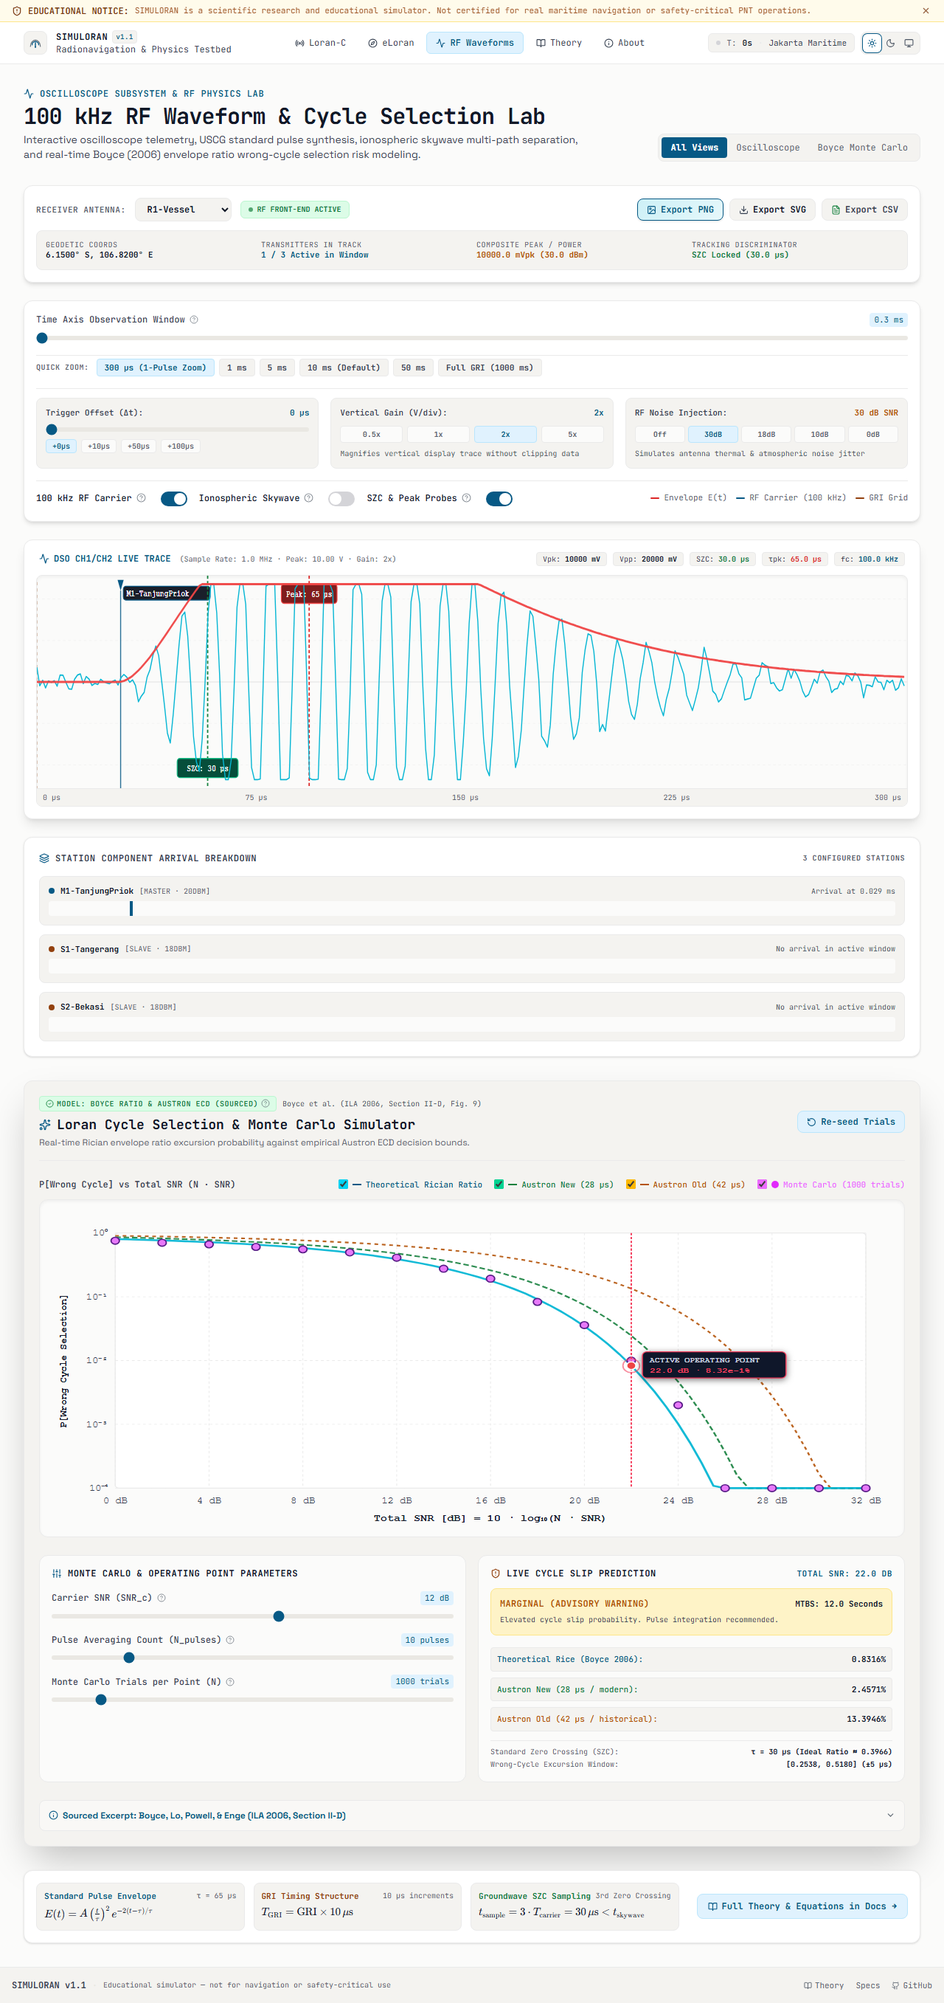
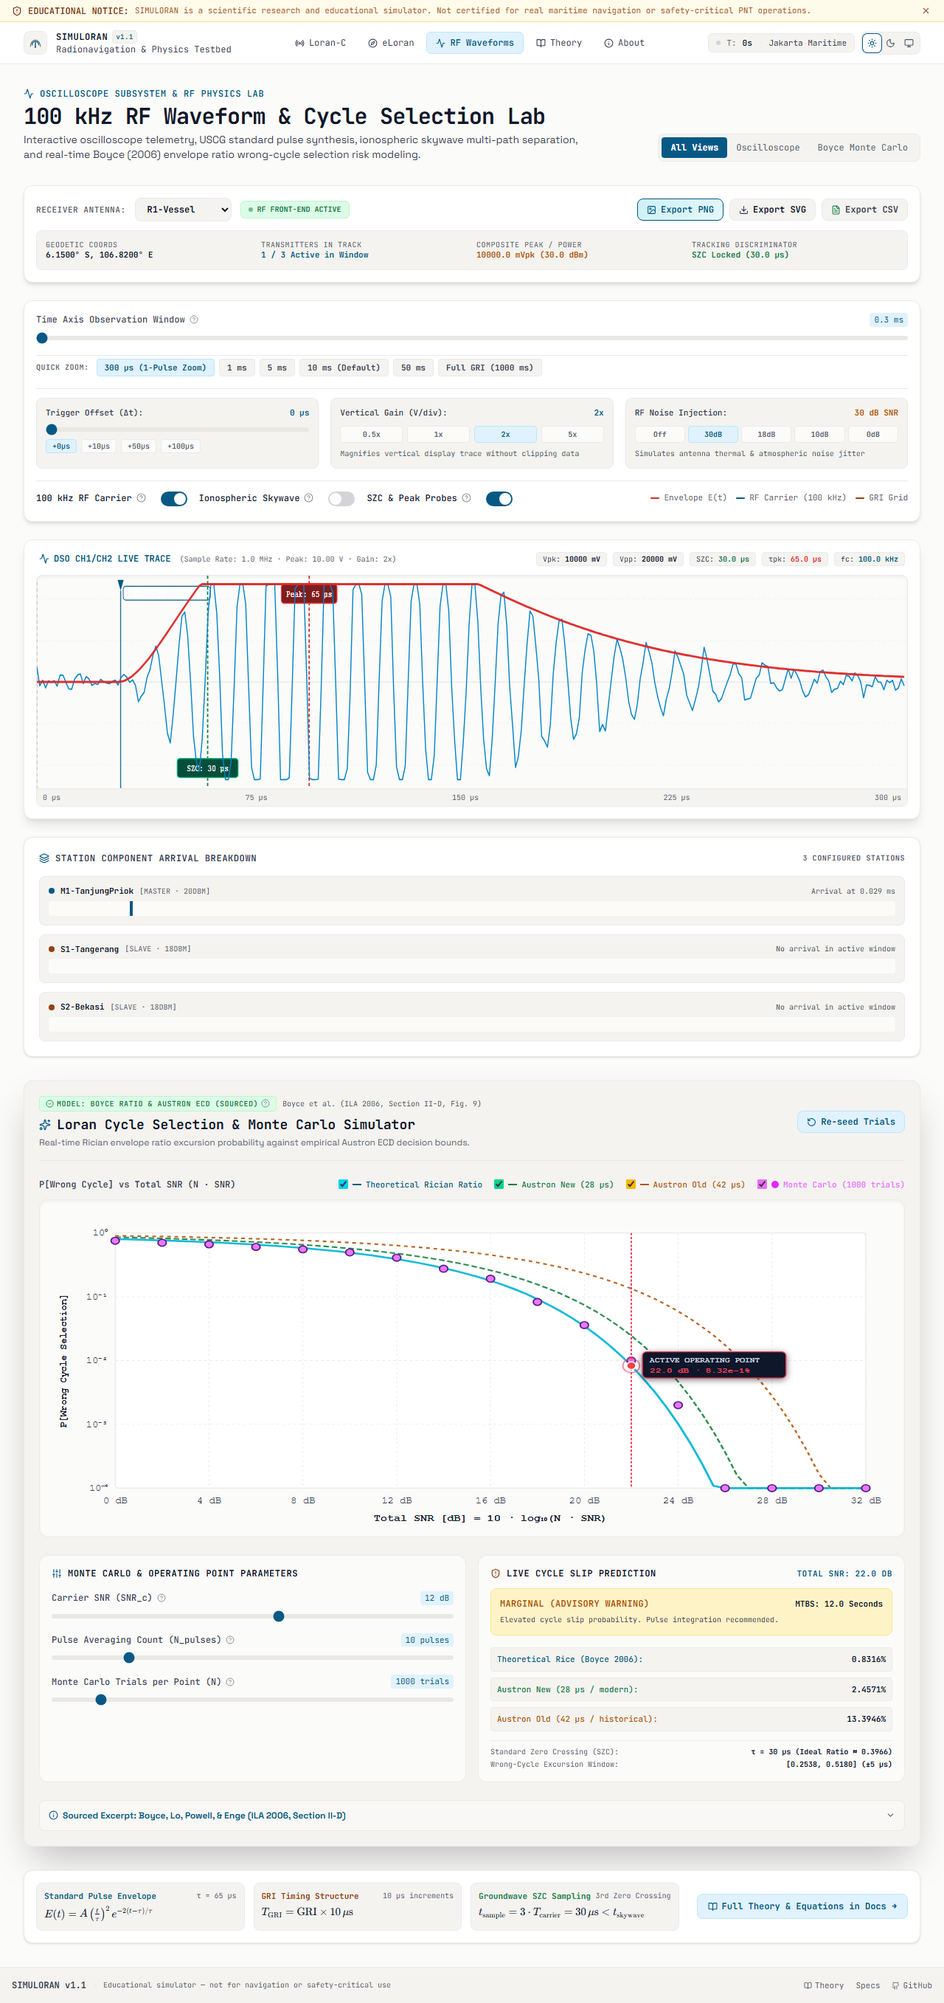
ui: adapt waveform exports and oscilloscope to active theme

Changed region(s): [[0.125, 0.2786, 0.2188, 0.3095]]

diff --git a/src/components/charts/PulseViewer.jsx b/src/components/charts/PulseViewer.jsx
@@ -4,6 +4,7 @@ import {
   Sliders, ShieldCheck, RotateCcw, Image as ImageIcon,
 } from 'lucide-react';
 import { useSimulationStore } from '../../state/simulationStore.js';
+import { useThemeStore } from '../../state/themeStore.js';
 import { synthesizeReceiverWaveform } from '../../lib/pulse.js';
 import Toggle from '../ui/Toggle.jsx';
 import Slider from '../ui/Slider.jsx';
@@ -15,6 +16,8 @@ export default function PulseViewer() {
   } = useSimulationStore();
 
   const svgRef = useRef(null);
+  const { effectiveTheme } = useThemeStore();
+  const isDark = effectiveTheme === 'dark';
 
   // Timebase & Oscilloscope Controls
   const [windowDurationMs, setWindowDurationMs] = useState(10);
@@ -144,7 +147,7 @@ export default function PulseViewer() {
   // Single-pulse zoom mode detection (window <= 0.5 ms)
   const isSinglePulseZoom = windowDurationMs <= 0.5;
 
-  // Presentation-Grade Vector SVG String Generator (Shared between SVG & PNG exports)
+  // Presentation-Grade Vector SVG String Generator (Theme-Adaptive between Light & Dark modes)
   const generateExportSvgString = () => {
     if (!waveform.length) return '';
     const exportWidth = 1200;
@@ -156,6 +159,71 @@ export default function PulseViewer() {
     const chartH = 360;
     const midY = topY + chartH / 2;
     const botY = topY + chartH;
+
+    // Theme-specific colors calibrated for WCAG contrast & crisp oscilloscope presentation
+    const colors = isDark ? {
+      bgStart: '#080c14',
+      bgEnd: '#03050a',
+      bezelFill: '#03050a',
+      bezelStroke: '#1e293b',
+      headerTitle: '#f8fafc',
+      headerSubtitle: '#94a3b8',
+      headerStandards: '#64748b',
+      hudBg: '#090d16',
+      hudBorder: '#334155',
+      hudTitle: '#38bdf8',
+      hudText: '#cbd5e1',
+      hudSubText: '#94a3b8',
+      gridLine: '#1e293b',
+      centerLine: '#334155',
+      axisText: '#94a3b8',
+      waveColor: '#06b6d4',
+      envColor: '#ef4444',
+      masterColor: '#06b6d4',
+      slaveColor: '#f59e0b',
+      badgeBg: '#070c18',
+      badgeText: '#f8fafc',
+      badgeSkyText: '#fcd34d',
+      szcLine: '#10b981',
+      szcBoxBg: '#064e3b',
+      szcBoxBorder: '#10b981',
+      szcText: '#ecfdf5',
+      peakLine: '#ef4444',
+      peakBoxBg: '#7f1d1d',
+      peakBoxBorder: '#ef4444',
+      peakText: '#fef2f2',
+    } : {
+      bgStart: '#f8fafc',
+      bgEnd: '#edf2f7',
+      bezelFill: '#ffffff',
+      bezelStroke: '#cbd5e1',
+      headerTitle: '#0f172a',
+      headerSubtitle: '#475569',
+      headerStandards: '#64748b',
+      hudBg: '#f1f5f9',
+      hudBorder: '#cbd5e1',
+      hudTitle: '#0284c7',
+      hudText: '#1e293b',
+      hudSubText: '#64748b',
+      gridLine: '#e2e8f0',
+      centerLine: '#94a3b8',
+      axisText: '#64748b',
+      waveColor: '#0284c7',
+      envColor: '#dc2626',
+      masterColor: '#0369a1',
+      slaveColor: '#d97706',
+      badgeBg: '#ffffff',
+      badgeText: '#0f172a',
+      badgeSkyText: '#b45309',
+      szcLine: '#059669',
+      szcBoxBg: '#ecfdf5',
+      szcBoxBorder: '#059669',
+      szcText: '#065f46',
+      peakLine: '#dc2626',
+      peakBoxBg: '#fef2f2',
+      peakBoxBorder: '#dc2626',
+      peakText: '#991b1b',
+    };
 
     const ptsCount = Math.min(waveform.length, 2400);
     const expStep = Math.max(1, Math.floor(waveform.length / ptsCount));
@@ -182,8 +250,8 @@ export default function PulseViewer() {
         ? `${(frac * windowDurationMs * 1000).toFixed(0)} µs`
         : `${(frac * windowDurationMs).toFixed(1)} ms`;
       gridLinesSvg += `
-        <line x1="${gx.toFixed(1)}" y1="${topY}" x2="${gx.toFixed(1)}" y2="${botY}" stroke="#1e293b" stroke-width="1" stroke-dasharray="2 3" />
-        <text x="${gx.toFixed(1)}" y="${botY + 22}" fill="#94a3b8" font-size="11" font-family="ui-monospace, monospace" text-anchor="middle">${timeVal}</text>
+        <line x1="${gx.toFixed(1)}" y1="${topY}" x2="${gx.toFixed(1)}" y2="${botY}" stroke="${colors.gridLine}" stroke-width="1" stroke-dasharray="2 3" />
+        <text x="${gx.toFixed(1)}" y="${botY + 22}" fill="${colors.axisText}" font-size="11" font-family="ui-monospace, monospace" text-anchor="middle">${timeVal}</text>
       `;
     }
 
@@ -199,8 +267,8 @@ export default function PulseViewer() {
     ampLines.forEach((l) => {
       const isCenter = Math.abs(l.y - midY) < 1;
       ampGridSvg += `
-        <line x1="${padX}" y1="${l.y.toFixed(1)}" x2="${padX + chartW}" y2="${l.y.toFixed(1)}" stroke="${isCenter ? '#334155' : '#1e293b'}" stroke-width="${isCenter ? '1.5' : '1'}" />
-        <text x="${padX - 12}" y="${(l.y + 4).toFixed(1)}" fill="#94a3b8" font-size="11" font-family="ui-monospace, monospace" text-anchor="end">${l.label}</text>
+        <line x1="${padX}" y1="${l.y.toFixed(1)}" x2="${padX + chartW}" y2="${l.y.toFixed(1)}" stroke="${isCenter ? colors.centerLine : colors.gridLine}" stroke-width="${isCenter ? '1.5' : '1'}" />
+        <text x="${padX - 12}" y="${(l.y + 4).toFixed(1)}" fill="${colors.axisText}" font-size="11" font-family="ui-monospace, monospace" text-anchor="end">${l.label}</text>
       `;
     });
 
@@ -220,7 +288,7 @@ export default function PulseViewer() {
     let arrivalsSvg = '';
 
     visibleArrivals.forEach((arr) => {
-      const color = arr.role === 'master' ? '#06b6d4' : '#f59e0b';
+      const color = arr.role === 'master' ? colors.masterColor : colors.slaveColor;
       const labelText = `${arr.station} ${arr.isSkywave ? '(Sky)' : ''}`;
       const badgeW = Math.max(76, Math.round(labelText.length * 6.5 + 20));
       const badgeH = 19;
@@ -249,9 +317,9 @@ export default function PulseViewer() {
           <line x1="${arr.ax.toFixed(1)}" y1="${topY}" x2="${arr.ax.toFixed(1)}" y2="${botY}" stroke="${color}" stroke-width="${arr.isSkywave ? '1.2' : '1.5'}" stroke-dasharray="${arr.isSkywave ? '3 3' : 'none'}" opacity="0.85" />
           <polygon points="${arr.ax.toFixed(1)},${topY + 9} ${(arr.ax - 4.5).toFixed(1)},${topY} ${(arr.ax + 4.5).toFixed(1)},${topY}" fill="${color}" />
           <line x1="${arr.ax.toFixed(1)}" y1="${(badgeY + badgeH / 2).toFixed(1)}" x2="${leaderTargetX.toFixed(1)}" y2="${(badgeY + badgeH / 2).toFixed(1)}" stroke="${color}" stroke-width="0.8" stroke-dasharray="2 2" opacity="0.6" />
-          <rect x="${badgeX.toFixed(1)}" y="${badgeY.toFixed(1)}" width="${badgeW}" height="${badgeH}" rx="4" fill="#070c18" fill-opacity="0.94" stroke="${color}" stroke-width="1" stroke-opacity="0.9" />
+          <rect x="${badgeX.toFixed(1)}" y="${badgeY.toFixed(1)}" width="${badgeW}" height="${badgeH}" rx="4" fill="${colors.badgeBg}" fill-opacity="0.96" stroke="${color}" stroke-width="1" stroke-opacity="0.9" />
           <circle cx="${(badgeX + 9).toFixed(1)}" cy="${(badgeY + 9.5).toFixed(1)}" r="2.5" fill="${color}" />
-          <text x="${(badgeX + 16).toFixed(1)}" y="${(badgeY + 13.5).toFixed(1)}" fill="${arr.isSkywave ? '#fcd34d' : '#f8fafc'}" font-size="9.5" font-family="ui-monospace, monospace" font-weight="bold" letter-spacing="0.2">${labelText}</text>
+          <text x="${(badgeX + 16).toFixed(1)}" y="${(badgeY + 13.5).toFixed(1)}" fill="${arr.isSkywave ? colors.badgeSkyText : colors.badgeText}" font-size="9.5" font-family="ui-monospace, monospace" font-weight="bold" letter-spacing="0.2">${labelText}</text>
         </g>
       `;
     });
@@ -270,9 +338,9 @@ export default function PulseViewer() {
         const x30 = padX + frac30 * chartW;
         szcMarkersSvg += `
           <g>
-            <line x1="${x30.toFixed(1)}" y1="${topY}" x2="${x30.toFixed(1)}" y2="${botY}" stroke="#10b981" stroke-width="1.8" stroke-dasharray="3 2" />
-            <rect x="${(x30 - 48).toFixed(1)}" y="${botY - 32}" width="96" height="20" rx="4" fill="#064e3b" fill-opacity="0.95" stroke="#10b981" stroke-width="1" />
-            <text x="${x30.toFixed(1)}" y="${botY - 18}" fill="#ecfdf5" font-size="10" font-family="ui-monospace, monospace" font-weight="bold" text-anchor="middle">SZC: 30.0 µs (3rd Cycle)</text>
+            <line x1="${x30.toFixed(1)}" y1="${topY}" x2="${x30.toFixed(1)}" y2="${botY}" stroke="${colors.szcLine}" stroke-width="1.8" stroke-dasharray="3 2" />
+            <rect x="${(x30 - 48).toFixed(1)}" y="${botY - 32}" width="96" height="20" rx="4" fill="${colors.szcBoxBg}" fill-opacity="0.95" stroke="${colors.szcBoxBorder}" stroke-width="1" />
+            <text x="${x30.toFixed(1)}" y="${botY - 18}" fill="${colors.szcText}" font-size="10" font-family="ui-monospace, monospace" font-weight="bold" text-anchor="middle">SZC: 30.0 µs (3rd Cycle)</text>
           </g>
         `;
       }
@@ -281,9 +349,9 @@ export default function PulseViewer() {
         const x65 = padX + frac65 * chartW;
         szcMarkersSvg += `
           <g>
-            <line x1="${x65.toFixed(1)}" y1="${topY}" x2="${x65.toFixed(1)}" y2="${botY}" stroke="#ef4444" stroke-width="1.8" stroke-dasharray="3 2" />
-            <rect x="${(x65 - 45).toFixed(1)}" y="${botY - 58}" width="90" height="20" rx="4" fill="#7f1d1d" fill-opacity="0.95" stroke="#ef4444" stroke-width="1" />
-            <text x="${x65.toFixed(1)}" y="${botY - 44}" fill="#fef2f2" font-size="10" font-family="ui-monospace, monospace" font-weight="bold" text-anchor="middle">Peak τpk: 65.0 µs</text>
+            <line x1="${x65.toFixed(1)}" y1="${topY}" x2="${x65.toFixed(1)}" y2="${botY}" stroke="${colors.peakLine}" stroke-width="1.8" stroke-dasharray="3 2" />
+            <rect x="${(x65 - 45).toFixed(1)}" y="${botY - 58}" width="90" height="20" rx="4" fill="${colors.peakBoxBg}" fill-opacity="0.95" stroke="${colors.peakBoxBorder}" stroke-width="1" />
+            <text x="${x65.toFixed(1)}" y="${botY - 44}" fill="${colors.peakText}" font-size="10" font-family="ui-monospace, monospace" font-weight="bold" text-anchor="middle">Peak τpk: 65.0 µs</text>
           </g>
         `;
       }
@@ -297,8 +365,8 @@ export default function PulseViewer() {
 <svg xmlns="http://www.w3.org/2000/svg" viewBox="0 0 ${exportWidth} ${exportHeight}" width="${exportWidth}" height="${exportHeight}" preserveAspectRatio="xMidYMid meet">
   <defs>
     <linearGradient id="bgGrad" x1="0%" y1="0%" x2="0%" y2="100%">
-      <stop offset="0%" stop-color="#080c14" />
-      <stop offset="100%" stop-color="#03050a" />
+      <stop offset="0%" stop-color="${colors.bgStart}" />
+      <stop offset="100%" stop-color="${colors.bgEnd}" />
     </linearGradient>
   </defs>
 
@@ -306,20 +374,20 @@ export default function PulseViewer() {
   <rect width="${exportWidth}" height="${exportHeight}" fill="url(#bgGrad)" rx="10" />
 
   <!-- Oscilloscope Bezel -->
-  <rect x="${padX}" y="${topY}" width="${chartW}" height="${chartH}" fill="#03050a" stroke="#1e293b" stroke-width="1.5" rx="6" />
+  <rect x="${padX}" y="${topY}" width="${chartW}" height="${chartH}" fill="${colors.bezelFill}" stroke="${colors.bezelStroke}" stroke-width="1.5" rx="6" />
 
   <!-- Header Info -->
-  <text x="${padX}" y="38" fill="#f8fafc" font-size="18" font-family="ui-monospace, monospace" font-weight="bold">Loran-C / eLoran Antenna Composite Voltage</text>
-  <text x="${padX}" y="60" fill="#94a3b8" font-size="12" font-family="ui-monospace, monospace">Receiver: ${rx?.label || 'R1-Vessel'} (Lat: ${rx?.lat?.toFixed(4) || '0.0000'}°, Lon: ${rx?.lng?.toFixed(4) || '0.0000'}°) · Window: ${windowTitle} · Gain: ${verticalGain}x · Sample Rate: ${(sampleRate / 1e6).toFixed(1)} MHz</text>
-  <text x="${padX}" y="78" fill="#64748b" font-size="10" font-family="ui-monospace, monospace">Standards: USCG Specification COMDTINST M16562.4A · CCIR Rec. 589 · 100 kHz Groundwave Discrimination</text>
+  <text x="${padX}" y="38" fill="${colors.headerTitle}" font-size="18" font-family="ui-monospace, monospace" font-weight="bold">Loran-C / eLoran Antenna Composite Voltage</text>
+  <text x="${padX}" y="60" fill="${colors.headerSubtitle}" font-size="12" font-family="ui-monospace, monospace">Receiver: ${rx?.label || 'R1-Vessel'} (Lat: ${rx?.lat?.toFixed(4) || '0.0000'}°, Lon: ${rx?.lng?.toFixed(4) || '0.0000'}°) · Window: ${windowTitle} · Gain: ${verticalGain}x · Sample Rate: ${(sampleRate / 1e6).toFixed(1)} MHz</text>
+  <text x="${padX}" y="78" fill="${colors.headerStandards}" font-size="10" font-family="ui-monospace, monospace">Standards: USCG Specification COMDTINST M16562.4A · CCIR Rec. 589 · 100 kHz Groundwave Discrimination</text>
 
   <!-- Scope HUD Box in SVG Header -->
   <g transform="translate(${exportWidth - 460}, 18)">
-    <rect width="415" height="82" fill="#090d16" fill-opacity="0.95" stroke="#334155" stroke-width="1.2" rx="6" />
-    <text x="14" y="20" fill="#38bdf8" font-size="11" font-family="ui-monospace, monospace" font-weight="bold">SCOPE HUD TELEMETRY</text>
-    <text x="14" y="38" fill="#cbd5e1" font-size="10" font-family="ui-monospace, monospace">Vpk: ${(vPeak * 1000).toFixed(1)} mV  |  Vpp: ${(vPp * 1000).toFixed(1)} mV  |  fc: 100.0 kHz</text>
-    <text x="14" y="54" fill="#cbd5e1" font-size="10" font-family="ui-monospace, monospace">SZC: 30.0 µs  |  τpk: 65.0 µs  |  Prx: ${pDbm.toFixed(1)} dBm  |  Gain: ${verticalGain}x</text>
-    <text x="14" y="70" fill="#94a3b8" font-size="9.5" font-family="ui-monospace, monospace">Traces: Pulse Envelope E(t) (Red) · Pulse Wave (100 kHz) (Cyan)</text>
+    <rect width="415" height="82" fill="${colors.hudBg}" fill-opacity="0.96" stroke="${colors.hudBorder}" stroke-width="1.2" rx="6" />
+    <text x="14" y="20" fill="${colors.hudTitle}" font-size="11" font-family="ui-monospace, monospace" font-weight="bold">SCOPE HUD TELEMETRY</text>
+    <text x="14" y="38" fill="${colors.hudText}" font-size="10" font-family="ui-monospace, monospace">Vpk: ${(vPeak * 1000).toFixed(1)} mV  |  Vpp: ${(vPp * 1000).toFixed(1)} mV  |  fc: 100.0 kHz</text>
+    <text x="14" y="54" fill="${colors.hudText}" font-size="10" font-family="ui-monospace, monospace">SZC: 30.0 µs  |  τpk: 65.0 µs  |  Prx: ${pDbm.toFixed(1)} dBm  |  Gain: ${verticalGain}x</text>
+    <text x="14" y="70" fill="${colors.hudSubText}" font-size="9.5" font-family="ui-monospace, monospace">Traces: Pulse Envelope E(t) (Red) · Pulse Wave (100 kHz) (${isDark ? 'Cyan' : 'Blue'})</text>
   </g>
 
   <!-- Grid and Ticks -->
@@ -333,11 +401,10 @@ export default function PulseViewer() {
   ${arrivalsSvg}
 
   <!-- Waveform Traces -->
-  ${envPath ? `<path d="${envPath}" fill="none" stroke="#ef4444" stroke-width="2.2" stroke-linecap="round" stroke-linejoin="round" opacity="0.95" />` : ''}
-  ${settings.includeCarrier && wavePath ? `<path d="${wavePath}" fill="none" stroke="#06b6d4" stroke-width="1.3" stroke-linejoin="round" />` : ''}
+  ${envPath ? `<path d="${envPath}" fill="none" stroke="${colors.envColor}" stroke-width="2.2" stroke-linecap="round" stroke-linejoin="round" opacity="0.95" />` : ''}
+  ${settings.includeCarrier && wavePath ? `<path d="${wavePath}" fill="none" stroke="${colors.waveColor}" stroke-width="1.3" stroke-linejoin="round" />` : ''}
 </svg>`;
   };
-
   // High-Resolution Raster PNG Export (Requested format for clean report presentation)
   const handleExportPng = () => {
     if (!waveform.length) return;
@@ -891,8 +958,8 @@ export default function PulseViewer() {
                       width={badgeW}
                       height={badgeH}
                       rx={3}
-                      fill="#070c18"
-                      fillOpacity={0.92}
+                      fill={isDark ? "#070c18" : "#ffffff"}
+                      fillOpacity={0.94}
                       stroke={color}
                       strokeWidth={0.8}
                     />
@@ -946,7 +1013,7 @@ export default function PulseViewer() {
               <polyline
                 points={polylinePoints}
                 fill="none"
-                stroke="#06b6d4" strokeWidth={settings.includeCarrier ? "1.2" : "2"}
+                stroke={isDark ? "#06b6d4" : "#0284c7"} strokeWidth={settings.includeCarrier ? "1.2" : "2"}
                 strokeLinejoin="round"
               />
             )}
@@ -956,7 +1023,7 @@ export default function PulseViewer() {
               <polyline
                 points={envelopePoints}
                 fill="none"
-                stroke="#ef4444" strokeWidth="2" strokeLinejoin="round" opacity="0.95"
+                stroke={isDark ? "#ef4444" : "#dc2626"} strokeWidth="2" strokeLinejoin="round" opacity="0.95"
               />
             )}
           </svg>

diff --git a/e2e/waveforms-revamp-export.spec.js b/e2e/waveforms-revamp-export.spec.js
@@ -97,41 +97,80 @@ test.describe('Waveforms Revamp & Export Fidelity Verification', () => {
     const updatedOp = page.locator('text=22.0 dB');
     await expect(updatedOp.first()).toBeVisible();
 
-    // 4. Verify Export Fidelity (Requirement 3)
-    // Test PNG Export (High-resolution raster export)
-    const downloadPromisePng = page.waitForEvent('download');
+    // 4. Verify Export Fidelity & Theme-Adaptive Palette (Requirement 3)
+    // A) Verify Light Theme Export (Default)
+    const downloadPromiseLightSvg = page.waitForEvent('download');
+    const exportSvgBtn = page.getByRole('button', { name: /Export SVG/i });
+    await exportSvgBtn.click();
+    const downloadLightSvg = await downloadPromiseLightSvg;
+    const lightSvgPath = await downloadLightSvg.path();
+    const lightSvgContent = fs.readFileSync(lightSvgPath, 'utf8');
+
+    // Verify Light theme colors are applied in the export
+    expect(lightSvgContent).toContain('<svg xmlns="http://www.w3.org/2000/svg"');
+    expect(lightSvgContent).toContain('Loran-C / eLoran Antenna Composite Voltage');
+    expect(lightSvgContent).toContain('fill="#ffffff"'); // Crisp white bezel
+    expect(lightSvgContent).toContain('fill="#f1f5f9"'); // Light HUD box
+    expect(lightSvgContent).toContain('SCOPE HUD TELEMETRY');
+    expect(lightSvgContent).toContain('SZC: 30.0 µs');
+    expect(lightSvgContent).toContain('fc: 100.0 kHz');
+
+    // Test Light PNG Export
+    const downloadPromiseLightPng = page.waitForEvent('download');
     const exportPngBtn = page.getByRole('button', { name: /Export PNG/i });
     await expect(exportPngBtn).toBeVisible();
     await exportPngBtn.click();
-    const downloadPng = await downloadPromisePng;
-    expect(downloadPng.suggestedFilename()).toContain('loran-pulse-trace');
-    expect(downloadPng.suggestedFilename()).toContain('.png');
-    const pngPath = await downloadPng.path();
-    const pngStats = fs.statSync(pngPath);
-    expect(pngStats.size).toBeGreaterThan(10000); // Verify non-empty raster image
-    const pngBuffer = fs.readFileSync(pngPath);
-    // PNG Magic Number check: 0x89 0x50 0x4E 0x47
-    expect(pngBuffer[0]).toBe(0x89);
-    expect(pngBuffer[1]).toBe(0x50);
-    expect(pngBuffer[2]).toBe(0x4E);
-    expect(pngBuffer[3]).toBe(0x47);
+    const downloadLightPng = await downloadPromiseLightPng;
+    expect(downloadLightPng.suggestedFilename()).toContain('loran-pulse-trace');
+    expect(downloadLightPng.suggestedFilename()).toContain('.png');
+    const lightPngPath = await downloadLightPng.path();
+    const lightPngStats = fs.statSync(lightPngPath);
+    expect(lightPngStats.size).toBeGreaterThan(10000);
+    const lightPngBuffer = fs.readFileSync(lightPngPath);
+    expect(lightPngBuffer[0]).toBe(0x89);
+    expect(lightPngBuffer[1]).toBe(0x50);
+    expect(lightPngBuffer[2]).toBe(0x4E);
+    expect(lightPngBuffer[3]).toBe(0x47);
 
-    // Test SVG Export
-    const downloadPromiseSvg = page.waitForEvent('download');
-    const exportSvgBtn = page.getByRole('button', { name: /Export SVG/i });
+    // Save light mode export verification screenshot
+    const screenshotDir = path.resolve('docs/verification/screenshots');
+    fs.mkdirSync(screenshotDir, { recursive: true });
+    fs.copyFileSync(lightPngPath, path.join(screenshotDir, 'export_pulse_trace_light_mode.png'));
+
+    // B) Switch to Dark Theme & Verify Dark Theme Export
+    const darkThemeBtn = page.locator('button[title*="dark" i], button[aria-label*="dark" i]').first();
+    if (await darkThemeBtn.isVisible()) {
+      await darkThemeBtn.click();
+      await page.waitForTimeout(300);
+    }
+
+    const downloadPromiseDarkSvg = page.waitForEvent('download');
     await exportSvgBtn.click();
-    const downloadSvg = await downloadPromiseSvg;
-    const svgPath = await downloadSvg.path();
-    const svgContent = fs.readFileSync(svgPath, 'utf8');
+    const downloadDarkSvg = await downloadPromiseDarkSvg;
+    const darkSvgPath = await downloadDarkSvg.path();
+    const darkSvgContent = fs.readFileSync(darkSvgPath, 'utf8');
 
-    // Rigorous SVG Content checks
-    expect(svgContent).toContain('<svg xmlns="http://www.w3.org/2000/svg"');
-    expect(svgContent).toContain('Loran-C / eLoran Antenna Composite Voltage');
-    expect(svgContent).toContain('SCOPE HUD TELEMETRY');
-    expect(svgContent).toContain('SZC: 30.0 µs');
-    expect(svgContent).toContain('fc: 100.0 kHz');
-    expect(svgContent).not.toContain('NaN');
-    expect(svgContent).not.toContain('undefined');
+    // Verify Dark theme colors are applied in the export
+    expect(darkSvgContent).toContain('fill="#03050a"'); // Deep obsidian bezel
+    expect(darkSvgContent).toContain('fill="#090d16"'); // Dark HUD box
+    expect(darkSvgContent).toContain('SCOPE HUD TELEMETRY');
+    expect(darkSvgContent).toContain('SZC: 30.0 µs');
+
+    // Test Dark PNG Export
+    const downloadPromiseDarkPng = page.waitForEvent('download');
+    await exportPngBtn.click();
+    const downloadDarkPng = await downloadPromiseDarkPng;
+    const darkPngPath = await downloadDarkPng.path();
+    const darkPngStats = fs.statSync(darkPngPath);
+    expect(darkPngStats.size).toBeGreaterThan(10000);
+    fs.copyFileSync(darkPngPath, path.join(screenshotDir, 'export_pulse_trace_dark_mode.png'));
+
+    // Switch back to light theme for subsequent tests
+    const lightThemeBtn = page.locator('button[title*="light" i], button[aria-label*="light" i]').first();
+    if (await lightThemeBtn.isVisible()) {
+      await lightThemeBtn.click();
+      await page.waitForTimeout(300);
+    }
 
     // Test CSV Export
     const downloadPromiseCsv = page.waitForEvent('download');
@@ -156,9 +195,6 @@ test.describe('Waveforms Revamp & Export Fidelity Verification', () => {
     await expect(theoryLink).toHaveAttribute('href', '/learn#uscg-pulse');
 
     // Capture visual proof screenshots
-    const screenshotDir = path.resolve('docs/verification/screenshots');
-    fs.mkdirSync(screenshotDir, { recursive: true });
-
     // Switch back to All Views & 1-Pulse canonical zoom for pristine capture
     await quickZoom1Pulse.click();
     await page.waitForTimeout(300);
